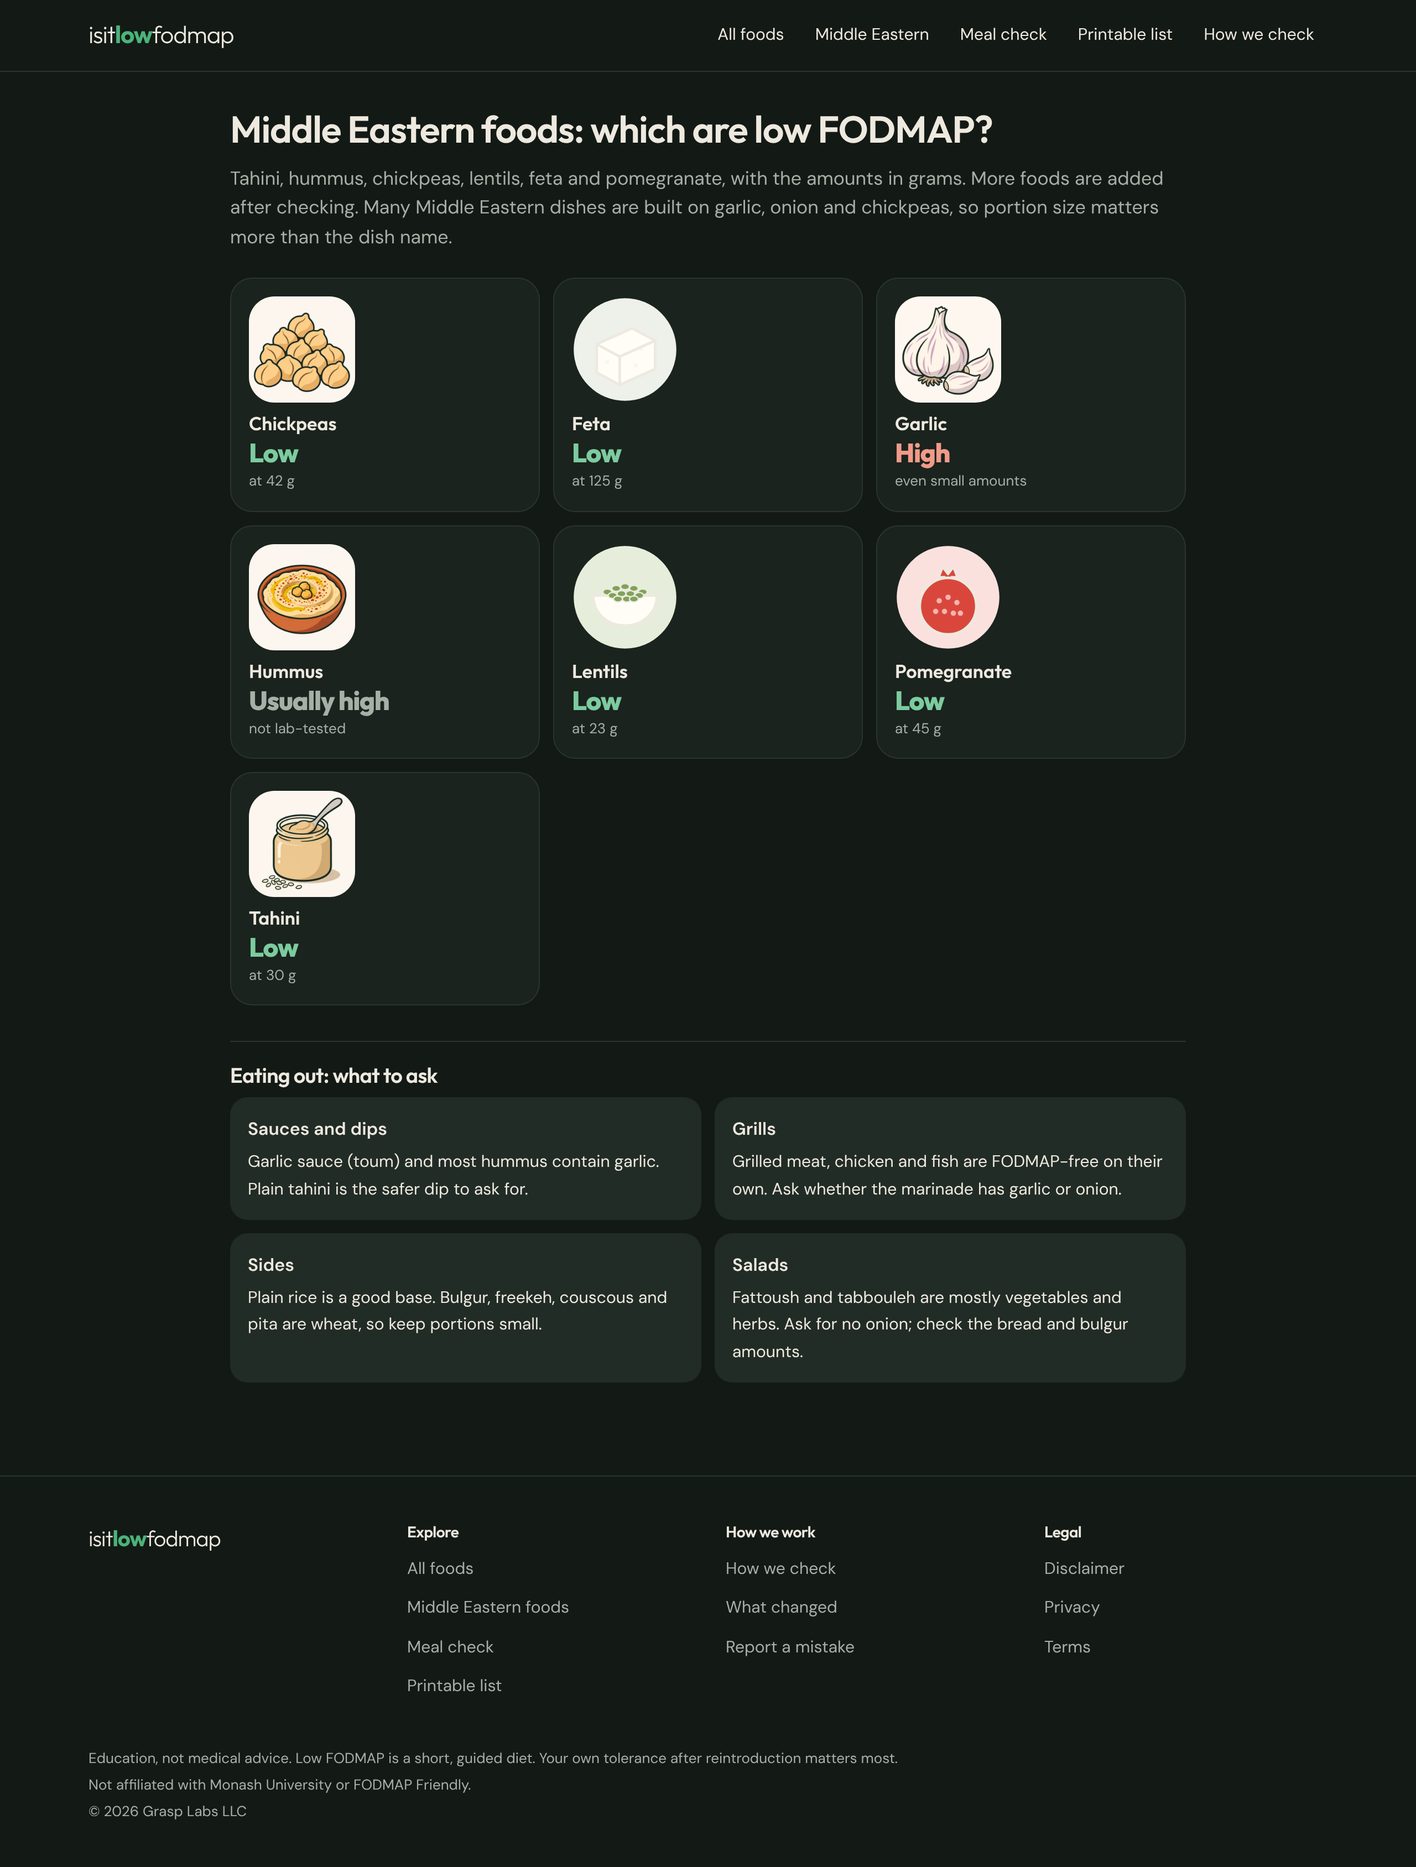
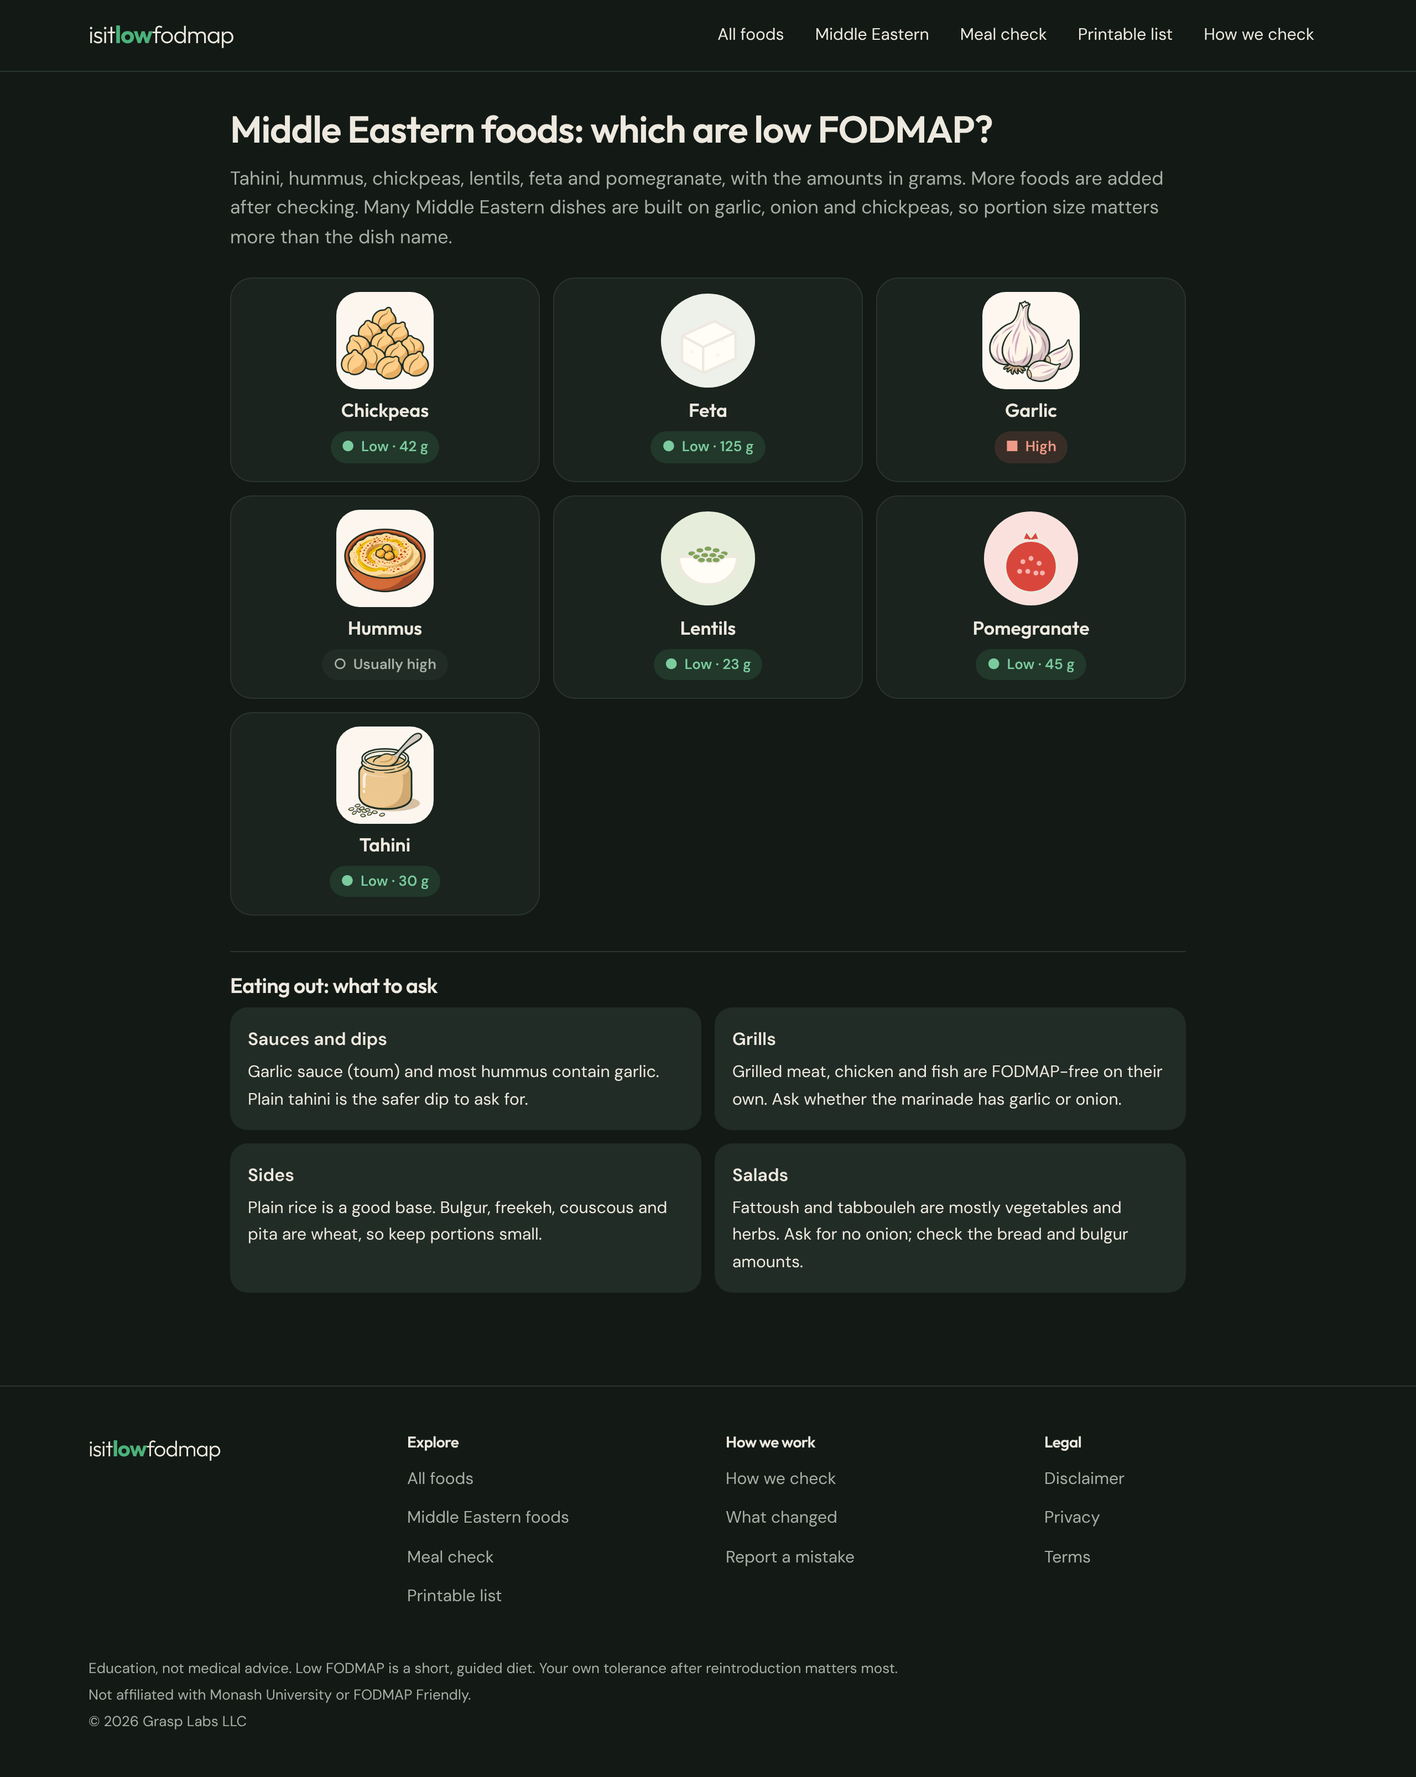
Clearer diagrams (filling bowls, big readout, amount buttons, no stripes) and a calmer home page
Claude-Session: https://claude.ai/code/session_01Q8GFjWSXATGhzzXd6CdBtz

diff --git a/src/components/AnswerCard.tsx b/src/components/AnswerCard.tsx
@@ -1,14 +1,15 @@
 import type { Food } from "@/data/schema";
 import { GROUP_LABEL } from "@/lib/groups";
 import { verdict } from "@/lib/fodmap";
+import { Bowl } from "./Bowl";
 
 // Answer-first hero (DECISIONS 2026-11-19, option 1): a big Yes/No, one sentence with grams, 3 traffic lights.
-type Light = { tone: "low" | "mid" | "high" | "none"; label: string; grams: string; sub?: string };
+type Light = { tone: "low" | "mid" | "high" | "none"; label: string; grams: string; sub?: string; level: 0 | 1 | 2 | 3 };
 const TONE = {
-  low: { box: "bg-low/15", text: "text-brand-ink", shape: "●" },
-  mid: { box: "bg-mid/20", text: "text-mid-ink", shape: "▲" },
-  high: { box: "bg-high/15", text: "text-high-ink", shape: "■" },
-  none: { box: "bg-chip", text: "text-muted", shape: "○" },
+  low: { box: "bg-low/15", text: "text-brand-ink", shape: "●", fill: "var(--low)" },
+  mid: { box: "bg-mid/20", text: "text-mid-ink", shape: "▲", fill: "var(--mid)" },
+  high: { box: "bg-high/15", text: "text-high-ink", shape: "■", fill: "var(--high)" },
+  none: { box: "bg-chip", text: "text-muted", shape: "○", fill: "transparent" },
 };
 
 export function answerWord(food: Food) {
@@ -31,12 +32,11 @@ export function AnswerCard({ food, cite }: { food: Food; cite: (ids: string[]) =
     <>{food.estimateAnswer?.line ?? "No lab has published a tested serve yet."}</>;
 
   const lights: Light[] = [];
-  if (v === "estimate" || v === "unknown") lights.push({ tone: "none", label: "Low", grams: "not tested" });
-  else {
-    lights.push(s.lowMaxG !== null ? { tone: "low", label: "Low", grams: `${s.lowMaxG} g`, sub: s.household } : { tone: "none", label: "Low", grams: "none", sub: "no low amount" });
-    if (s.moderateFromG !== null) lights.push({ tone: "mid", label: "Moderate", grams: `${s.moderateFromG} g` });
-    if (s.highFromG !== null) lights.push({ tone: "high", label: "High", grams: `${s.highFromG} g+`, sub: s.lowMaxG === null ? "smallest tested" : undefined });
-    if (s.moderateFromG === null && s.highFromG === null) lights.push({ tone: "none", label: "More", grams: "not tested", sub: `above ${s.lowMaxG} g` });
+  if (v !== "estimate" && v !== "unknown") {
+    lights.push(s.lowMaxG !== null ? { tone: "low", label: "Low", grams: `${s.lowMaxG} g`, sub: s.household, level: 1 } : { tone: "none", label: "Low", grams: "none", sub: "no low amount", level: 0 });
+    if (s.moderateFromG !== null) lights.push({ tone: "mid", label: "Moderate", grams: `${s.moderateFromG} g`, level: 2 });
+    if (s.highFromG !== null) lights.push({ tone: "high", label: "High", grams: `${s.highFromG} g+`, sub: s.lowMaxG === null ? "smallest tested" : undefined, level: 3 });
+    if (s.moderateFromG === null && s.highFromG === null) lights.push({ tone: "none", label: "More", grams: "not tested", sub: `above ${s.lowMaxG} g`, level: 2 });
   }
   const textTone = TONE[tone].text;
 
@@ -44,15 +44,18 @@ export function AnswerCard({ food, cite }: { food: Food; cite: (ids: string[]) =
     <section aria-label="Answer" className="mt-5 rounded-[var(--radius-card)] border border-line bg-card p-5 sm:p-6">
       <p className={`font-display text-[44px] font-extrabold leading-none tracking-[-0.035em] sm:text-[56px] ${textTone}`}>{word}</p>
       <p className="mt-2 text-[19px] leading-snug">{line}</p>
-      <ul className="mt-4 flex gap-2">
+      {lights.length > 0 && (
+      <ul className="mt-4 flex gap-2" aria-label="Amounts">
         {lights.map((l) => (
-          <li key={l.label} className={`flex-1 rounded-2xl px-2 py-2.5 text-center ${TONE[l.tone].box}`}>
-            <p className={`text-[13px] font-bold ${TONE[l.tone].text}`}><span aria-hidden>{TONE[l.tone].shape} </span>{l.label}</p>
+          <li key={l.label} className={`flex-1 rounded-2xl px-2 pb-2.5 pt-3 text-center ${TONE[l.tone].box}`}>
+            <span className={TONE[l.tone].text}><Bowl level={l.level} color={TONE[l.tone].fill} /></span>
+            <p className={`mt-1 text-[13px] font-bold ${TONE[l.tone].text}`}><span aria-hidden>{TONE[l.tone].shape} </span>{l.label}</p>
             <p className="font-display text-[21px] font-extrabold leading-tight">{l.grams}</p>
             {l.sub && <p className="text-[12px] leading-tight text-muted">{l.sub}</p>}
           </li>
         ))}
       </ul>
+      )}
       <p className="mt-4 text-[14px] text-muted">
         Watch for: <b className="text-ink">{groups}</b> · {v === "estimate" || v === "unknown" ? "Estimated from ingredients" : "Lab data"}{cite(s.sourceIds)}
       </p>

diff --git a/src/app/page.tsx b/src/app/page.tsx
@@ -1,45 +1,43 @@
 import Link from "next/link";
-import { foods } from "@/data";
+import { foods, getFood } from "@/data";
 import { FoodSearch } from "@/components/FoodSearch";
 import { FoodTile } from "@/components/FoodTile";
 import { checkerIndex } from "@/lib/index-data";
 import { JsonLd } from "@/lib/jsonld";
 
+const TRY = ["garlic", "avocado", "hummus", "sweet-potato"];
+
 export default function Home() {
   const items = checkerIndex();
   return (
-    <div className="mx-auto max-w-5xl px-4 pt-10">
+    <div className="mx-auto max-w-5xl px-4">
       <JsonLd graph={[]} />
-      <h1 className="text-center text-[38px] font-semibold sm:text-[52px]">Is it low FODMAP?</h1>
-      <p className="mx-auto mt-3 max-w-xl text-center text-[18px] text-muted">The amount in grams, which FODMAP, and where every number comes from.</p>
-      <div className="mx-auto mt-7 max-w-2xl"><FoodSearch items={items} /></div>
+      <section className="mx-auto max-w-xl pb-10 pt-12 text-center sm:pt-16">
+        <h1 className="text-[40px] font-semibold sm:text-[54px]">Is it low FODMAP?</h1>
+        <p className="mt-3 text-[18px] text-muted">The answer in grams, with the source for every number.</p>
+        <div className="mt-7 text-left"><FoodSearch items={items} /></div>
+        <p className="mt-4 text-[15px] text-muted">
+          Try:{" "}
+          {TRY.map((slug, i) => { const f = getFood(slug); return f ? (<span key={slug}>{i ? " · " : ""}<Link href={`/food/${slug}`} className="text-brand-ink underline-offset-4 hover:underline">{f.name}</Link></span>) : null; })}
+        </p>
+      </section>
 
-      <section className="mt-10" aria-labelledby="popular">
-        <h2 id="popular" className="text-[22px] font-semibold">Checked foods</h2>
+      <section aria-labelledby="checked">
+        <div className="flex items-baseline justify-between">
+          <h2 id="checked" className="text-[22px] font-semibold">Checked foods</h2>
+          <Link href="/foods" className="text-[15px] text-brand-ink">See all →</Link>
+        </div>
         <ul className="mt-4 grid grid-cols-2 gap-3 sm:grid-cols-3 lg:grid-cols-5">
           {foods.map((f) => (<li key={f.slug}><FoodTile food={f} /></li>))}
         </ul>
       </section>
 
-      <section className="mt-10 grid gap-3 sm:grid-cols-3" aria-label="Tools">
-        {[
-          ["/check", "Meal check", "Add 2–5 foods and see if their FODMAPs stack up."],
-          ["/region/middle-eastern", "Middle Eastern foods", "Tahini, hummus, chickpeas, lentils and more."],
-          ["/printable", "Printable list", "One page, by food group, with grams."],
-        ].map(([href, t, d]) => (
-          <Link key={href} href={href} className="rounded-[var(--radius-card)] bg-soft p-4 hover:outline hover:outline-brand">
-            <h2 className="text-[17px] font-semibold">{t}</h2><p className="mt-1 text-[15px] text-muted">{d}</p></Link>
-        ))}
-      </section>
-
-      <section className="mx-auto mt-10 max-w-3xl border-t border-line pt-6" aria-labelledby="how">
-        <h2 id="how" className="text-[20px] font-semibold">How we check</h2>
-        <ul className="mt-2 space-y-1 text-[16px]">
-          <li>Every number links to a public source: a lab paper or the testing lab&apos;s own public posts.</li>
-          <li>Where sources disagree, we show both and what changed.</li>
-          <li>We never say &ldquo;low&rdquo; without lab data. <Link href="/how-we-check" className="text-brand-ink underline">Read the method</Link>.</li>
-        </ul>
-      </section>
+      <nav aria-label="More" className="mt-12 flex flex-col gap-1 border-t border-line pt-6 text-[17px] sm:flex-row sm:gap-8">
+        <Link href="/check" className="py-1.5 font-medium hover:text-brand-ink">Meal check →</Link>
+        <Link href="/region/middle-eastern" className="py-1.5 font-medium hover:text-brand-ink">Middle Eastern foods →</Link>
+        <Link href="/printable" className="py-1.5 font-medium hover:text-brand-ink">Printable list →</Link>
+      </nav>
+      <p className="mt-3 text-[15px] text-muted">Every number links to its public source. <Link href="/how-we-check" className="underline">How we check</Link></p>
     </div>
   );
 }

diff --git a/src/components/PortionSlider.tsx b/src/components/PortionSlider.tsx
@@ -19,15 +19,16 @@ export function PortionSlider({ serving, start }: { serving: Serving; start?: nu
   const step = serving.scaleMaxG <= 20 ? 0.5 : serving.scaleMaxG <= 60 ? 1 : 5;
   const groups = serving.groups.map((x) => GROUP_LABEL[x]).join(" + ");
   const segs = bands(serving);
+  const picks = [serving.lowMaxG, serving.moderateFromG, serving.highFromG].filter((x): x is number => x !== null);
   const ticks = [0, serving.lowMaxG ?? serving.highFromG, serving.scaleMaxG]
     .filter((t): t is number => t !== null && t <= serving.scaleMaxG)
     .filter((t, i, a) => a.indexOf(t) === i)
     .filter((t, i, a) => i === 0 || (t - a[i - 1]) / serving.scaleMaxG >= 0.09 || t === serving.scaleMaxG);
   return (
     <div>
-      <div className="flex items-baseline justify-between gap-3">
-        <label htmlFor={id} className="text-[15px] font-semibold">{m.food.slider}: <span className="tabular-nums">{g} g</span></label>
-        <span role="status" aria-live="polite" className={`rounded-full px-2.5 py-0.5 text-[14px] font-semibold ${ZONE_STYLE[z].cls}`}>
+      <div className="flex items-center justify-between gap-3">
+        <label htmlFor={id} className="font-display text-[32px] font-extrabold leading-none tracking-[-0.03em] tabular-nums">{g} g<span className="sr-only"> portion</span></label>
+        <span role="status" aria-live="polite" className={`rounded-full px-3 py-1.5 text-[16px] font-bold ${ZONE_STYLE[z].cls}`}>
           <span aria-hidden className="mr-1">{ZONE_STYLE[z].shape}</span>{m.zone[z]}{z !== "untested" && z !== "low" && groups ? ` in ${groups.toLowerCase()}` : ""}
         </span>
       </div>
@@ -46,6 +47,12 @@ export function PortionSlider({ serving, start }: { serving: Serving; start?: nu
       <div className="relative mt-1 h-4 text-[12px] text-muted tabular-nums" aria-hidden>
         {ticks.map((t, i) => (<span key={t} className="absolute whitespace-nowrap" style={{ left: `${(t / serving.scaleMaxG) * 100}%`, transform: i === 0 ? "none" : i === ticks.length - 1 ? "translateX(-100%)" : "translateX(-50%)" }}>{t} g</span>))}
       </div>
+      {picks.length > 1 && (
+        <div className="mt-4 flex flex-wrap gap-2" aria-label="Tested amounts">
+          {picks.map((p) => (<button key={p} type="button" onClick={() => setG(p)} aria-pressed={g === p}
+            className={`rounded-full border px-3 py-1.5 text-[14px] font-semibold tabular-nums ${g === p ? "border-ink bg-ink text-paper" : "border-line bg-card hover:border-brand"}`}>{p} g</button>))}
+        </div>
+      )}
     </div>
   );
 }

diff --git a/src/components/FoodTile.tsx b/src/components/FoodTile.tsx
@@ -2,20 +2,22 @@ import Link from "next/link";
 import type { Food } from "@/data/schema";
 import { verdict } from "@/lib/fodmap";
 import { FoodArt } from "./FoodArt";
+import { ZoneChip } from "./ZoneChip";
 
-// One food as a tile: picture, name and the answer in grams (same system as the food page hero).
+// One food: picture, name, one Low/High pill with the grams. Kept quiet so a grid of them stays calm.
 export function FoodTile({ food }: { food: Food }) {
   const s = food.servings[0];
   const v = verdict(food);
-  const big = v === "depends" || v === "low" ? "Low" : v === "high" ? "High" : (food.estimateAnswer?.word ?? "Not tested");
-  const small = v === "depends" ? `up to ${s.lowMaxG} g` : v === "low" ? `at ${s.lowMaxG} g` : v === "high" ? "even small amounts" : "not lab-tested";
-  const color = v === "high" ? "text-high-ink" : v === "estimate" || v === "unknown" ? "text-muted" : "text-brand-ink";
+  const chip =
+    v === "depends" ? { zone: "low" as const, label: `Low · up to ${s.lowMaxG} g` } :
+    v === "low" ? { zone: "low" as const, label: `Low · ${s.lowMaxG} g` } :
+    v === "high" ? { zone: "high" as const, label: "High" } :
+    { zone: "untested" as const, label: food.estimateAnswer?.word ?? "Not tested" };
   return (
-    <Link href={`/food/${food.slug}`} className="group flex flex-col rounded-[var(--radius-card)] border border-line bg-card p-3 transition-colors hover:border-brand sm:p-4">
-      <FoodArt name={food.illustration} size={96} label="" />
+    <Link href={`/food/${food.slug}`} className="flex flex-col items-center rounded-[var(--radius-card)] border border-line bg-card px-3 pb-4 pt-3 text-center transition-colors hover:border-brand">
+      <FoodArt name={food.illustration} size={88} label="" />
       <span className="mt-2 font-display text-[17px] font-semibold leading-tight">{food.name[0].toUpperCase() + food.name.slice(1)}</span>
-      <span className={`mt-1 font-display text-[24px] font-extrabold leading-none tracking-[-0.03em] ${color}`}>{big}<span className="sr-only"> FODMAP</span></span>
-      <span className="mt-1 text-[13px] text-muted">{small}</span>
+      <span className="mt-2"><ZoneChip zone={chip.zone} label={chip.label} /></span>
     </Link>
   );
 }

diff --git a/src/components/Bowl.tsx b/src/components/Bowl.tsx
@@ -1,0 +1,11 @@
+// Portion glyph: a bowl filled to a level (0 = empty). Decorative; the grams next to it carry the meaning.
+export function Bowl({ level, color }: { level: 0 | 1 | 2 | 3; color: string }) {
+  const h = [0, 7, 13, 19][level];
+  return (
+    <svg width="40" height="28" viewBox="0 0 40 28" aria-hidden className="mx-auto">
+      <defs><clipPath id={`bowl-${level}`}><path d="M3 6h34c0 11-8 19-17 19S3 17 3 6z" /></clipPath></defs>
+      {level > 0 && <rect x="0" y={25 - h} width="40" height={h + 2} fill={color} clipPath={`url(#bowl-${level})`} />}
+      <path d="M3 6h34c0 11-8 19-17 19S3 17 3 6z" fill="none" stroke="currentColor" strokeWidth="2" strokeLinejoin="round" />
+    </svg>
+  );
+}

diff --git a/src/components/ZoneChip.tsx b/src/components/ZoneChip.tsx
@@ -6,7 +6,7 @@ export const ZONE_STYLE: Record<Zone, { shape: string; cls: string; bar: string 
   low: { shape: "●", cls: "bg-low/15 text-brand-ink", bar: "bg-low" },
   moderate: { shape: "▲", cls: "bg-mid/20 text-mid-ink", bar: "bg-mid" },
   high: { shape: "■", cls: "bg-high/15 text-high-ink", bar: "bg-high" },
-  untested: { shape: "○", cls: "bg-chip text-muted", bar: "bg-[repeating-linear-gradient(135deg,var(--line)_0_6px,transparent_6px_12px)]" },
+  untested: { shape: "○", cls: "bg-chip text-muted", bar: "bg-line" },
 };
 
 export function ZoneChip({ zone, label }: { zone: Zone; label?: string }) {

diff --git a/docs/MANUAL-TESTS.md b/docs/MANUAL-TESTS.md
@@ -6,15 +6,15 @@ Preview: run locally (see STATUS "How to run") until Cloudflare is connected.
 ## M1: foundation (2026-11-18)
 
 ### Home + search
-- [ ] Open `/`. You see "Is it low FODMAP?", a search box and 10 food tiles, each with a picture and its low amount in big numbers.
+- [ ] Open `/`. You see "Is it low FODMAP?", a search box, "Try: garlic · avocado · hummus · sweet potato", then 10 food tiles (picture, name, one Low/High pill), then 3 quiet links.
 - [ ] Type `gar` → Garlic appears with "■ High" and "Try instead: Garlic-infused oil, Spring onion greens, Asafoetida".
 - [ ] Type `zaatar` → "We haven't checked "zaatar" yet."
 - [ ] Type `houmous` (UK spelling) → Hummus appears.
 
 ### Food page (try `/food/sweet-potato`)
-- [ ] Big green **Low FODMAP**, then "In a portion up to 75 g (about ½ cup). High from 112 g.", then 3 boxes: ● Low 75 g / ▲ Moderate 100 g / ■ High 112 g+.
+- [ ] Big green **Low FODMAP**, then "In a portion up to 75 g (about ½ cup). High from 112 g.", then 3 boxes with bowls that fill up: ● Low 75 g / ▲ Moderate 100 g / ■ High 112 g+.
 - [ ] `/food/garlic` says big red **High FODMAP**; `/food/hummus` says **Usually high** and has no portion slider.
-- [ ] Under "Check your portion", the scale has thick coloured segments with Low / High labels under them. Drag it: 75 g says **● Low**; 90 g **○ Not tested**; 105 g **▲ Moderate**; 120 g **■ High**.
+- [ ] Under "Check your portion": a big gram number, a coloured scale (grey = not tested), and buttons 75 g / 100 g / 112 g that jump the slider. The scale has thick coloured segments with Low / High labels under them. Drag it: 75 g says **● Low**; 90 g **○ Not tested**; 105 g **▲ Moderate**; 120 g **■ High**.
 - [ ] Tap a small [1] → it jumps to the matching source at the bottom; the link opens Monash's page.
 - [ ] "What changed" explains the 2025 retest reported by dietitian sites.
 - [ ] "See a doctor first if" box is there, calm amber, not red.

diff --git a/docs/DECISIONS.md b/docs/DECISIONS.md
@@ -133,3 +133,9 @@ Owner chose "1 · 3 traffic lights". The food page top is a big Yes / No (estima
 
 ## Verdict must say low or high (owner, 2026-11-19)
 Owner: "ppl must understand tho if its high or not etc". The big word is now **Low FODMAP** / **High FODMAP** (estimates: their own word, e.g. "Usually high", and a test blocks "low" in it), not a bare Yes/No. Tiles show "Low"/"High" plus the grams. Foods without lab data hide the portion slider.
+
+## Improve diagrams, cleaner home (owner, 2026-11-19)
+Owner: "not bad improve the diagrams and maybe on the home page aswell make it cleaner".
+- **Answer boxes:** each gets a bowl that fills with the amount (a third, two thirds, full), so "more food = more FODMAP" reads at a glance.
+- **Portion slider:** no stripes (untested is plain grey and labelled), a bigger readout, and tap buttons for the tested amounts.
+- **Home:** search plus "try" chips, calmer tiles (picture, name, one Low/High pill), and one quiet row of links instead of extra cards and paragraphs.
